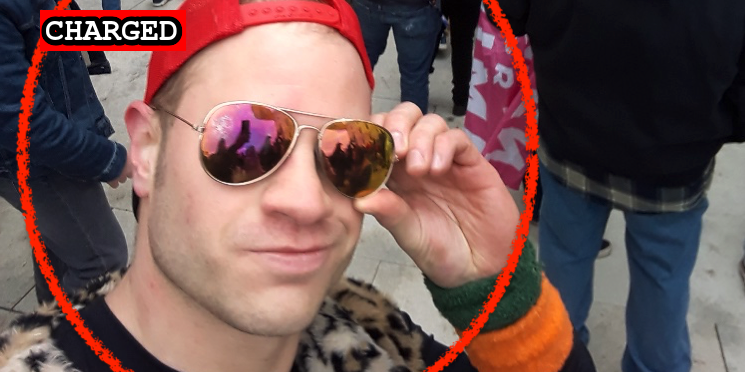
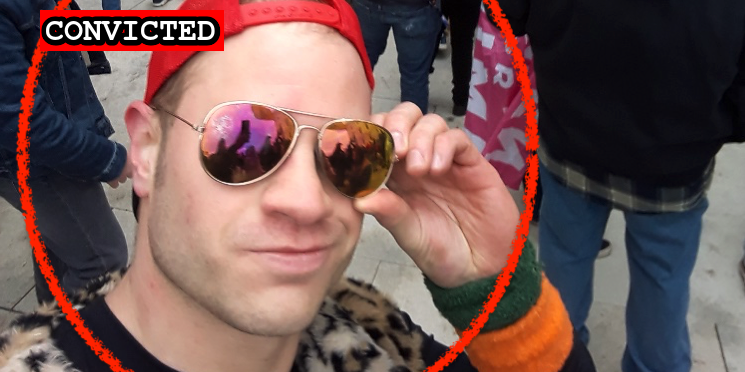
Latest plea deals

Changed region(s): [[0.0617, 0.0296, 0.3087, 0.1478]]

diff --git a/commands/suspect-convict.ts b/commands/suspect-convict.ts
@@ -1,44 +1,37 @@
 import { Command } from "commander";
 import { exitWithError, info } from "./common/console";
-import fs from "fs";
-import { readFile, writeFile } from "./common/file";
-import { exit } from "process";
-import { execSync } from 'child_process'
+import { execSync } from "child_process";
+import { Charge, getSuspectByFile, updateSuspect } from "./common/suspect";
+import { Charges } from "./common/charge";
 
-const cmd = new Command('convict')
+const cmd = new Command("convict")
   .requiredOption("-s, --slug [slug]", "filename slug")
-  .requiredOption("-d, --date [date]", "date of guilty plea");
+  .requiredOption("-d, --date [date]", "date of guilty plea")
+  .option("--parading", "suspect is pleading to the standard misdemeanor", true);
 cmd.parse(process.argv);
 
-const convict = async() => {
-  const suspectFiles = fs.readdirSync('./docs/_suspects');
-  const nameSet:Set<string> = new Set();
-  let maxId = 0;
+const convict = async () => {
+  const suspect = getSuspectByFile(`${cmd.slug}.md`);
 
-  for (const suspectFile of suspectFiles) {
-    if (suspectFile.replace(".md", "") == cmd.slug) {
-      info("Changing status to guilty");
-
-      const suspectPath = `./docs/_suspects/${suspectFile}`
-      let data = readFile(suspectPath)
-
-      data = data.replace(/status: .*\n/, "status: Convicted\n")
-      if (/convicted:.*\n/.test(data)) {
-        data = data.replace(/convicted:.*\n/, `convicted: ${cmd.date}\n`)
-      } else {
-        data.match(/(indicted:.*\n)/)
-        data = data.replace(/(indicted:.*\n)/, `${RegExp.$1}convicted: ${cmd.date}\n`)
-      }
-
-      writeFile(suspectPath, data)
-      data.match(/\/images\/preview\/(.*)\n/)
-
-      execSync(`yarn suspect preview -f ${RegExp.$1} -s Convicted`)
-
-      exit()
-    }
+  if (!suspect) {
+    exitWithError("No such suspect");
   }
-  exitWithError(`No such file ${cmd.slug}.md`)
-}
+
+  info("Changing status to convicted");
+  suspect.status = "Convicted";
+  suspect.convicted = cmd.date;
+  suspect.plea_hearing = cmd.date;
+
+  if (cmd.parading) {
+    const parading: Charge = Charges.find(({ code }) => code === "18 USC § 5104(e)(2)(G)");
+    info("Adding parading charge");
+    suspect.charges = [parading];
+  }
+
+  updateSuspect(suspect);
+
+  info("Updating preview image");
+  execSync(`yarn suspect preview -f ${suspect.suspect} -s Convicted`);
+};
 
 convict();

diff --git a/commands/sheet-publish.ts b/commands/sheet-publish.ts
@@ -1,5 +1,5 @@
 import { Command } from "commander";
-import { info, warning } from "./common/console";
+import { info } from "./common/console";
 import { GoogleSpreadsheet, TextFormat } from "google-spreadsheet";
 import fs from "fs";
 import { dasherizeName, getSuspectByFile } from "./common/suspect";

diff --git a/docs/_suspects/jackson-kostolsky.md b/docs/_suspects/jackson-kostolsky.md
@@ -4,16 +4,16 @@ lastName: Kostolsky
 hashtag:
 aka:
 residence: Pennsylvania
-status: Charged
+status: Convicted
 date: 2021-02-23
 charged: 2021-02-23
 indicted:
-convicted: 
-sentenced: 
-dismissed: 
+convicted: 2021-09-28
+sentenced:
+dismissed:
 deceased:
-plea_hearing:
-sentencing:
+plea_hearing: 2021-09-28
+sentencing: 2021-12-21
 age: 32
 occupation:
 affiliations:
@@ -34,7 +34,12 @@ published: true
 caseNumber: 1:21-cr-197
 videos:
 charges:
+  - code: 18 USC § 5104(e)(2)(G)
+    title: Parading, demonstrating or picketing in a Capitol building
+    url: https://www.law.cornell.edu/uscode/text/40/5104
+    felony: false
 sentence:
 ---
+
 - [News Report](https://www.wfmz.com/news/area/lehighvalley/paperwork-video-shows-lehigh-county-man-was-at-u-s-capitol-during-riot/article_540d8556-7dee-11eb-845a-c3b80faa77ff.html)
 - [Statement of Facts](https://www.justice.gov/usao-dc/case-multi-defendant/file/1393611/download)

diff --git a/docs/_suspects/jennifer-parks.md b/docs/_suspects/jennifer-parks.md
@@ -4,16 +4,16 @@ lastName: Parks
 hashtag:
 aka:
 residence: Kansas
-status: Charged
+status: Convicted
 date: 2021-04-15
 charged: 2021-04-15
 indicted:
-convicted: 
+convicted: 2021-09-28
 sentenced:
-dismissed: 
+dismissed:
 deceased:
-plea_hearing:
-sentencing:
+plea_hearing: 2021-09-28
+sentencing: 2021-12-08
 age:
 occupation:
 affiliations:
@@ -34,8 +34,13 @@ published: true
 caseNumber: 1:21-cr-363
 videos:
 charges:
+  - code: 18 USC § 5104(e)(2)(G)
+    title: Parading, demonstrating or picketing in a Capitol building
+    url: https://www.law.cornell.edu/uscode/text/40/5104
+    felony: false
 sentence:
 ---
+
 - [News Report](https://www.msn.com/en-us/news/us/two-kansas-women-arrested-in-jan-6-capitol-riot/ar-BB1g2yEp)
 - [Complaint](https://www.justice.gov/usao-dc/case-multi-defendant/file/1389181/download)
 - [Statement of Facts](https://www.justice.gov/usao-dc/case-multi-defendant/file/1389186/download)

diff --git a/docs/_suspects/kevin-loftus.md b/docs/_suspects/kevin-loftus.md
@@ -8,11 +8,11 @@ status: Indicted
 date: 2021-01-12
 charged: 2021-01-12
 indicted: 2021-02-04
-convicted: 
-sentenced: 
-dismissed: 
+convicted:
+sentenced:
+dismissed:
 deceased:
-plea_hearing:
+plea_hearing: 2021-10-19
 sentencing:
 age: 52
 occupation:
@@ -36,6 +36,7 @@ videos:
 charges:
 sentence:
 ---
+
 - [News Report](https://wqow.com/2021/01/12/what-we-know-about-kevin-loftus-man-charged-for-connection-to-capitol-riot/)
 - [DOJ Press Release](https://www.justice.gov/usao-dc/pr/seven-charged-federal-court-following-events-united-capitol)
 - [Statement of Facts](https://www.justice.gov/usao-dc/case-multi-defendant/file/1365401/download)
